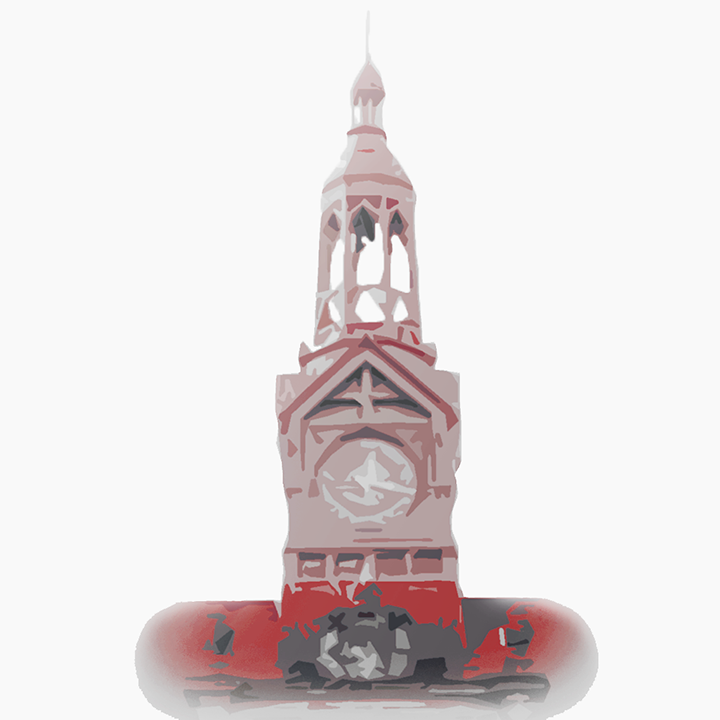
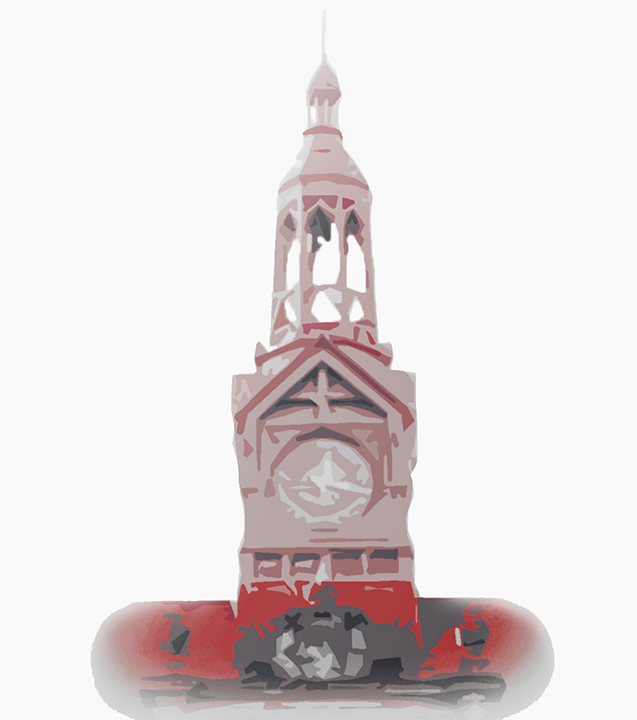
Improved gif display

Changed region(s): [[0.1193, 0.1222, 0.865, 1.0], [0.5369, 0.2139, 0.5667, 0.2444]]

diff --git a/src/components/Card.js b/src/components/Card.js
@@ -23,7 +23,7 @@ function Card({ title, skills, image, github, app, children }) {
 			<div class="md:flex">
 				<div class="md:flex-shrink-0">
 					<img
-						class="h-48 w-full object-cover md:w-60 md:h-full"
+						class="h-48 w-full md:object-left-top object-center object-cover md:w-60 md:h-full"
 						src={image}
 						alt="error"
 					></img>
